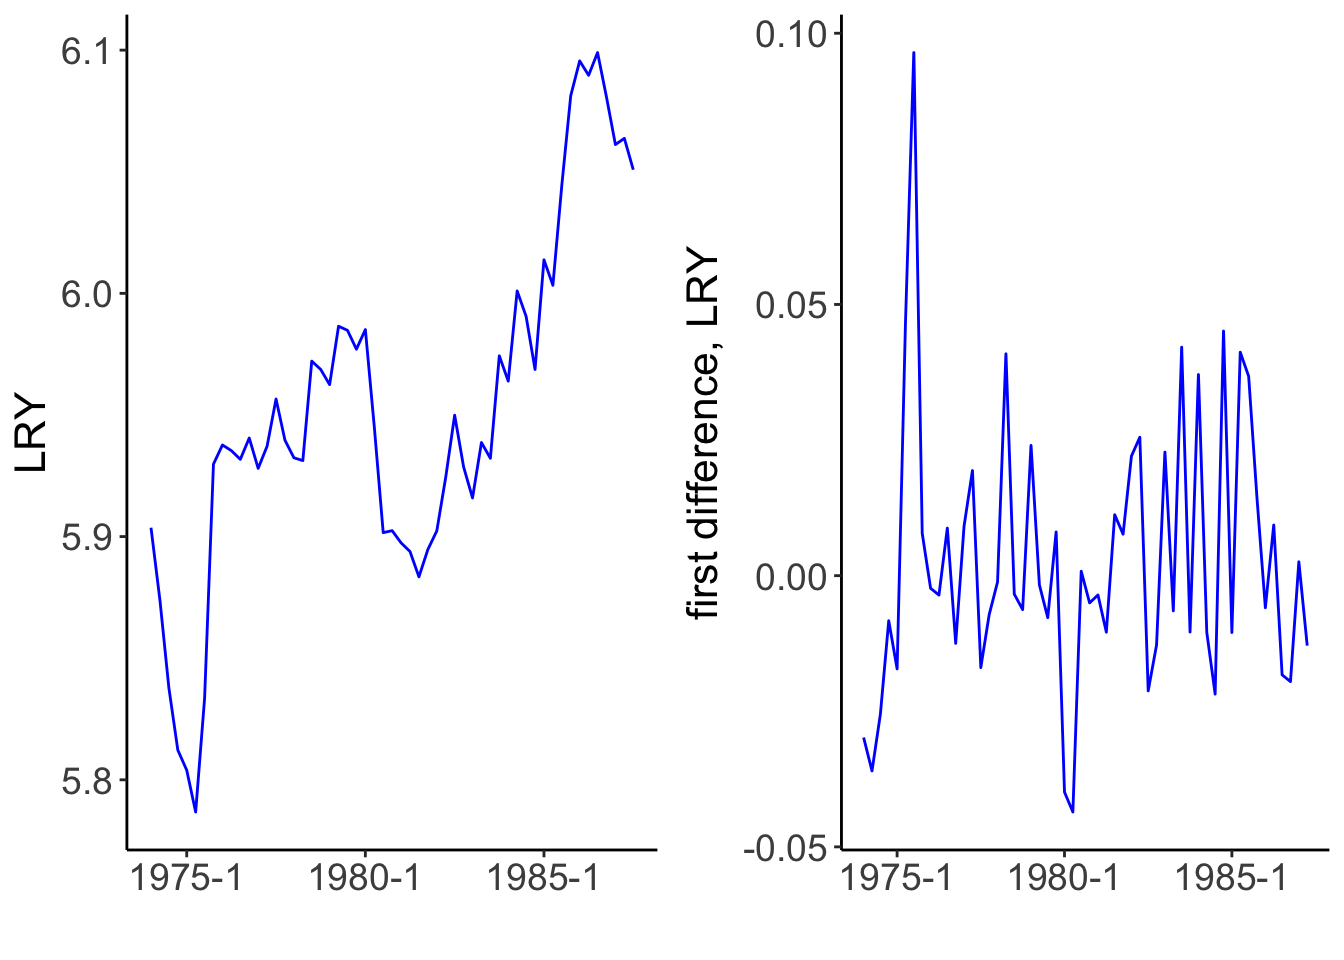
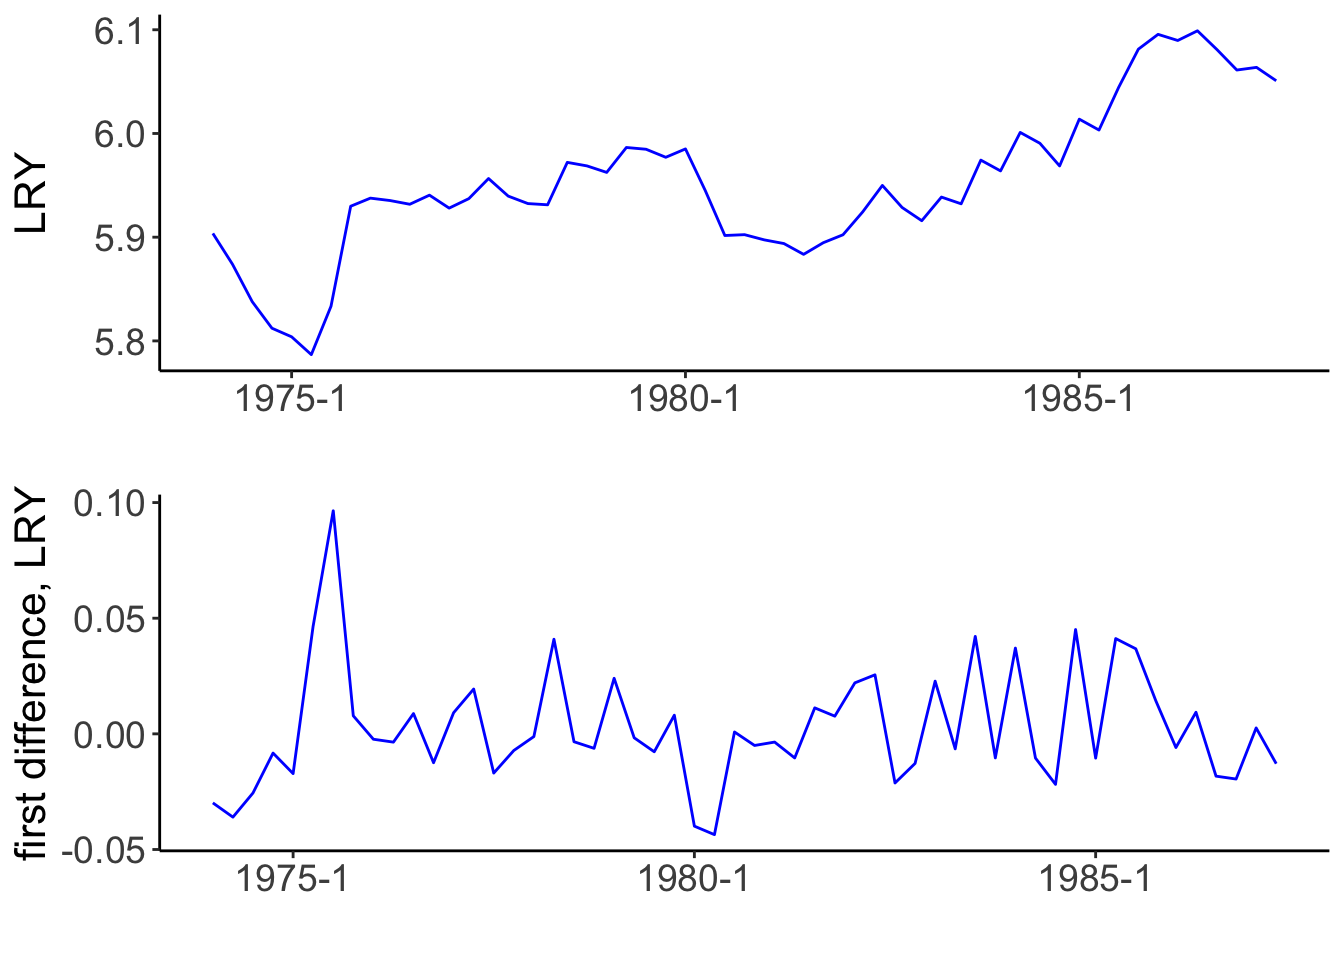
Publish site to docs/

diff --git a/docs/posts/dickey_fuller/index.html b/docs/posts/dickey_fuller/index.html
@@ -483,32 +483,32 @@ Summary of the Dickey-Fuller tests
 <summary>Code</summary>
 <div class="sourceCode cell-code" id="cb1"><pre class="sourceCode r code-with-copy"><code class="sourceCode r"><span id="cb1-1"><a href="#cb1-1" aria-hidden="true" tabindex="-1"></a><span class="fu">library</span>(tidyverse)</span>
 <span id="cb1-2"><a href="#cb1-2" aria-hidden="true" tabindex="-1"></a><span class="fu">library</span>(ggpubr)</span>
-<span id="cb1-3"><a href="#cb1-3" aria-hidden="true" tabindex="-1"></a><span class="fu">library</span>(urca)</span>
-<span id="cb1-4"><a href="#cb1-4" aria-hidden="true" tabindex="-1"></a><span class="fu">library</span>(zoo)</span>
-<span id="cb1-5"><a href="#cb1-5" aria-hidden="true" tabindex="-1"></a></span>
-<span id="cb1-6"><a href="#cb1-6" aria-hidden="true" tabindex="-1"></a><span class="fu">data</span>(denmark)</span>
-<span id="cb1-7"><a href="#cb1-7" aria-hidden="true" tabindex="-1"></a><span class="fu">attach</span>(denmark)</span>
-<span id="cb1-8"><a href="#cb1-8" aria-hidden="true" tabindex="-1"></a>denmark <span class="ot">&lt;-</span> <span class="fu">as.data.frame</span>(denmark)</span>
-<span id="cb1-9"><a href="#cb1-9" aria-hidden="true" tabindex="-1"></a>a <span class="ot">&lt;-</span> <span class="fu">as.character</span>(ENTRY)</span>
-<span id="cb1-10"><a href="#cb1-10" aria-hidden="true" tabindex="-1"></a>k <span class="ot">&lt;-</span> <span class="fu">length</span>(a)</span>
-<span id="cb1-11"><a href="#cb1-11" aria-hidden="true" tabindex="-1"></a><span class="cf">for</span> (i <span class="cf">in</span> <span class="dv">1</span><span class="sc">:</span>k) <span class="fu">substring</span>(a[i], <span class="at">first =</span> <span class="dv">5</span>, <span class="at">last =</span> <span class="dv">5</span>) <span class="ot">=</span> <span class="st">"-"</span></span>
-<span id="cb1-12"><a href="#cb1-12" aria-hidden="true" tabindex="-1"></a>ENTRY <span class="ot">&lt;-</span> <span class="fu">as.yearqtr</span>(<span class="fu">as.factor</span>(a))</span>
-<span id="cb1-13"><a href="#cb1-13" aria-hidden="true" tabindex="-1"></a></span>
-<span id="cb1-14"><a href="#cb1-14" aria-hidden="true" tabindex="-1"></a>df_ts  <span class="ot">&lt;-</span> <span class="fu">data.frame</span>(<span class="at">x =</span> ENTRY, <span class="at">y =</span> LRY)</span>
-<span id="cb1-15"><a href="#cb1-15" aria-hidden="true" tabindex="-1"></a>df_dts <span class="ot">&lt;-</span> <span class="fu">data.frame</span>(<span class="at">x =</span> ENTRY[<span class="dv">1</span><span class="sc">:</span>k<span class="dv">-1</span>], <span class="at">y =</span> <span class="fu">diff</span>(LRY))</span>
-<span id="cb1-16"><a href="#cb1-16" aria-hidden="true" tabindex="-1"></a></span>
-<span id="cb1-17"><a href="#cb1-17" aria-hidden="true" tabindex="-1"></a>my_theme <span class="ot">=</span> <span class="fu">theme</span>(</span>
-<span id="cb1-18"><a href="#cb1-18" aria-hidden="true" tabindex="-1"></a>  <span class="at">axis.title.x =</span> <span class="fu">element_text</span>(<span class="at">size =</span> <span class="dv">16</span>),</span>
-<span id="cb1-19"><a href="#cb1-19" aria-hidden="true" tabindex="-1"></a>  <span class="at">axis.text.x =</span> <span class="fu">element_text</span>(<span class="at">size =</span> <span class="dv">14</span>),</span>
-<span id="cb1-20"><a href="#cb1-20" aria-hidden="true" tabindex="-1"></a>  <span class="at">axis.title.y =</span> <span class="fu">element_text</span>(<span class="at">size =</span> <span class="dv">16</span>),</span>
-<span id="cb1-21"><a href="#cb1-21" aria-hidden="true" tabindex="-1"></a>  <span class="at">axis.text.y =</span> <span class="fu">element_text</span>(<span class="at">size =</span> <span class="dv">14</span>),</span>
-<span id="cb1-22"><a href="#cb1-22" aria-hidden="true" tabindex="-1"></a>  <span class="at">legend.title =</span> <span class="fu">element_text</span>(<span class="at">size =</span> <span class="dv">14</span>),</span>
-<span id="cb1-23"><a href="#cb1-23" aria-hidden="true" tabindex="-1"></a>  <span class="at">legend.text =</span> <span class="fu">element_text</span>(<span class="at">size =</span> <span class="dv">14</span>),</span>
-<span id="cb1-24"><a href="#cb1-24" aria-hidden="true" tabindex="-1"></a>  <span class="at">panel.border =</span> <span class="fu">element_blank</span>(),</span>
-<span id="cb1-25"><a href="#cb1-25" aria-hidden="true" tabindex="-1"></a>  <span class="at">panel.grid.major =</span> <span class="fu">element_blank</span>(),</span>
-<span id="cb1-26"><a href="#cb1-26" aria-hidden="true" tabindex="-1"></a>  <span class="at">panel.grid.minor =</span> <span class="fu">element_blank</span>(),</span>
-<span id="cb1-27"><a href="#cb1-27" aria-hidden="true" tabindex="-1"></a>  <span class="at">panel.background =</span> <span class="fu">element_blank</span>(),</span>
-<span id="cb1-28"><a href="#cb1-28" aria-hidden="true" tabindex="-1"></a>  <span class="at">panel.spacing =</span> <span class="fu">unit</span>(<span class="dv">1</span>, <span class="st">"lines"</span>),</span>
+<span id="cb1-3"><a href="#cb1-3" aria-hidden="true" tabindex="-1"></a><span class="fu">library</span>(grid)</span>
+<span id="cb1-4"><a href="#cb1-4" aria-hidden="true" tabindex="-1"></a><span class="fu">library</span>(urca)</span>
+<span id="cb1-5"><a href="#cb1-5" aria-hidden="true" tabindex="-1"></a><span class="fu">library</span>(zoo)</span>
+<span id="cb1-6"><a href="#cb1-6" aria-hidden="true" tabindex="-1"></a></span>
+<span id="cb1-7"><a href="#cb1-7" aria-hidden="true" tabindex="-1"></a><span class="fu">data</span>(denmark)</span>
+<span id="cb1-8"><a href="#cb1-8" aria-hidden="true" tabindex="-1"></a><span class="fu">attach</span>(denmark)</span>
+<span id="cb1-9"><a href="#cb1-9" aria-hidden="true" tabindex="-1"></a>denmark <span class="ot">&lt;-</span> <span class="fu">as.data.frame</span>(denmark)</span>
+<span id="cb1-10"><a href="#cb1-10" aria-hidden="true" tabindex="-1"></a>a <span class="ot">&lt;-</span> <span class="fu">as.character</span>(ENTRY)</span>
+<span id="cb1-11"><a href="#cb1-11" aria-hidden="true" tabindex="-1"></a>k <span class="ot">&lt;-</span> <span class="fu">length</span>(a)</span>
+<span id="cb1-12"><a href="#cb1-12" aria-hidden="true" tabindex="-1"></a><span class="cf">for</span> (i <span class="cf">in</span> <span class="dv">1</span><span class="sc">:</span>k) <span class="fu">substring</span>(a[i], <span class="at">first =</span> <span class="dv">5</span>, <span class="at">last =</span> <span class="dv">5</span>) <span class="ot">=</span> <span class="st">"-"</span></span>
+<span id="cb1-13"><a href="#cb1-13" aria-hidden="true" tabindex="-1"></a>ENTRY <span class="ot">&lt;-</span> <span class="fu">as.yearqtr</span>(<span class="fu">as.factor</span>(a))</span>
+<span id="cb1-14"><a href="#cb1-14" aria-hidden="true" tabindex="-1"></a></span>
+<span id="cb1-15"><a href="#cb1-15" aria-hidden="true" tabindex="-1"></a>df_ts  <span class="ot">&lt;-</span> <span class="fu">data.frame</span>(<span class="at">x =</span> ENTRY, <span class="at">y =</span> LRY)</span>
+<span id="cb1-16"><a href="#cb1-16" aria-hidden="true" tabindex="-1"></a>df_dts <span class="ot">&lt;-</span> <span class="fu">data.frame</span>(<span class="at">x =</span> ENTRY[<span class="dv">1</span><span class="sc">:</span>k<span class="dv">-1</span>], <span class="at">y =</span> <span class="fu">diff</span>(LRY))</span>
+<span id="cb1-17"><a href="#cb1-17" aria-hidden="true" tabindex="-1"></a></span>
+<span id="cb1-18"><a href="#cb1-18" aria-hidden="true" tabindex="-1"></a>my_theme <span class="ot">=</span> <span class="fu">theme</span>(</span>
+<span id="cb1-19"><a href="#cb1-19" aria-hidden="true" tabindex="-1"></a>  <span class="at">axis.title.x =</span> <span class="fu">element_text</span>(<span class="at">size =</span> <span class="dv">16</span>),</span>
+<span id="cb1-20"><a href="#cb1-20" aria-hidden="true" tabindex="-1"></a>  <span class="at">axis.text.x =</span> <span class="fu">element_text</span>(<span class="at">size =</span> <span class="dv">14</span>),</span>
+<span id="cb1-21"><a href="#cb1-21" aria-hidden="true" tabindex="-1"></a>  <span class="at">axis.title.y =</span> <span class="fu">element_text</span>(<span class="at">size =</span> <span class="dv">16</span>),</span>
+<span id="cb1-22"><a href="#cb1-22" aria-hidden="true" tabindex="-1"></a>  <span class="at">axis.text.y =</span> <span class="fu">element_text</span>(<span class="at">size =</span> <span class="dv">14</span>),</span>
+<span id="cb1-23"><a href="#cb1-23" aria-hidden="true" tabindex="-1"></a>  <span class="at">legend.title =</span> <span class="fu">element_text</span>(<span class="at">size =</span> <span class="dv">14</span>),</span>
+<span id="cb1-24"><a href="#cb1-24" aria-hidden="true" tabindex="-1"></a>  <span class="at">legend.text =</span> <span class="fu">element_text</span>(<span class="at">size =</span> <span class="dv">14</span>),</span>
+<span id="cb1-25"><a href="#cb1-25" aria-hidden="true" tabindex="-1"></a>  <span class="at">panel.border =</span> <span class="fu">element_blank</span>(),</span>
+<span id="cb1-26"><a href="#cb1-26" aria-hidden="true" tabindex="-1"></a>  <span class="at">panel.grid.major =</span> <span class="fu">element_blank</span>(),</span>
+<span id="cb1-27"><a href="#cb1-27" aria-hidden="true" tabindex="-1"></a>  <span class="at">panel.grid.minor =</span> <span class="fu">element_blank</span>(),</span>
+<span id="cb1-28"><a href="#cb1-28" aria-hidden="true" tabindex="-1"></a>  <span class="at">panel.background =</span> <span class="fu">element_blank</span>(),</span>
 <span id="cb1-29"><a href="#cb1-29" aria-hidden="true" tabindex="-1"></a>  <span class="at">axis.line =</span> <span class="fu">element_line</span>(<span class="at">colour =</span> <span class="st">"black"</span>))</span>
 <span id="cb1-30"><a href="#cb1-30" aria-hidden="true" tabindex="-1"></a></span>
 <span id="cb1-31"><a href="#cb1-31" aria-hidden="true" tabindex="-1"></a>p_ts <span class="ot">&lt;-</span> <span class="fu">ggplot</span>(df_ts, <span class="fu">aes</span>(x, y)) <span class="sc">+</span></span>
@@ -523,7 +523,8 @@ Summary of the Dickey-Fuller tests
 <span id="cb1-40"><a href="#cb1-40" aria-hidden="true" tabindex="-1"></a>       <span class="at">y =</span> <span class="st">"first difference, LRY"</span>) <span class="sc">+</span> </span>
 <span id="cb1-41"><a href="#cb1-41" aria-hidden="true" tabindex="-1"></a>  my_theme</span>
 <span id="cb1-42"><a href="#cb1-42" aria-hidden="true" tabindex="-1"></a></span>
-<span id="cb1-43"><a href="#cb1-43" aria-hidden="true" tabindex="-1"></a><span class="fu">ggarrange</span>(p_ts, p_dts)</span></code><button title="Copy to Clipboard" class="code-copy-button"><i class="bi"></i></button></pre></div>
+<span id="cb1-43"><a href="#cb1-43" aria-hidden="true" tabindex="-1"></a><span class="fu">grid.newpage</span>()</span>
+<span id="cb1-44"><a href="#cb1-44" aria-hidden="true" tabindex="-1"></a><span class="fu">grid.draw</span>(<span class="fu">rbind</span>(<span class="fu">ggplotGrob</span>(p_ts), <span class="fu">ggplotGrob</span>(p_dts), <span class="at">size =</span> <span class="st">"last"</span>))</span></code><button title="Copy to Clipboard" class="code-copy-button"><i class="bi"></i></button></pre></div>
 </details>
 <div class="cell-output-display">
 <div id="fig-fig1" class="quarto-figure quarto-figure-center quarto-float anchored">

diff --git a/docs/blog.html b/docs/blog.html
@@ -243,7 +243,7 @@ window.Quarto = {
     </div>
 </div>
 <div class="list quarto-listing-default">
-<div class="quarto-post image-right" data-index="0" data-categories="time series" data-listing-date-sort="1715551200000" data-listing-file-modified-sort="1715607752781" data-listing-date-modified-sort="NaN" data-listing-reading-time-sort="10" data-listing-word-count-sort="1808">
+<div class="quarto-post image-right" data-index="0" data-categories="time series" data-listing-date-sort="1715551200000" data-listing-file-modified-sort="1715608512865" data-listing-date-modified-sort="NaN" data-listing-reading-time-sort="10" data-listing-word-count-sort="1806">
 <div class="thumbnail">
 <p><a href="./posts/dickey_fuller/index.html" class="no-external"></a></p><a href="./posts/dickey_fuller/index.html" class="no-external">
 <p class="card-img-top"><img src="posts/dickey_fuller/index_files/figure-html/fig-fig1-1.png"  class="thumbnail-image card-img"/></p>

diff --git a/docs/archive.html b/docs/archive.html
@@ -235,7 +235,7 @@ window.Quarto = {
 
 <div class="quarto-listing quarto-listing-container-default" id="listing-listing">
 <div class="list quarto-listing-default">
-<div class="quarto-post image-right" data-index="0" data-categories="time series" data-listing-date-sort="1715551200000" data-listing-file-modified-sort="1715607752781" data-listing-date-modified-sort="NaN" data-listing-reading-time-sort="10" data-listing-word-count-sort="1808">
+<div class="quarto-post image-right" data-index="0" data-categories="time series" data-listing-date-sort="1715551200000" data-listing-file-modified-sort="1715608512865" data-listing-date-modified-sort="NaN" data-listing-reading-time-sort="10" data-listing-word-count-sort="1806">
 <div class="body">
 <h3 class="no-anchor listing-title">
 <a href="./posts/dickey_fuller/index.html" class="no-external">Augmented Dickey-Fuller test</a>
